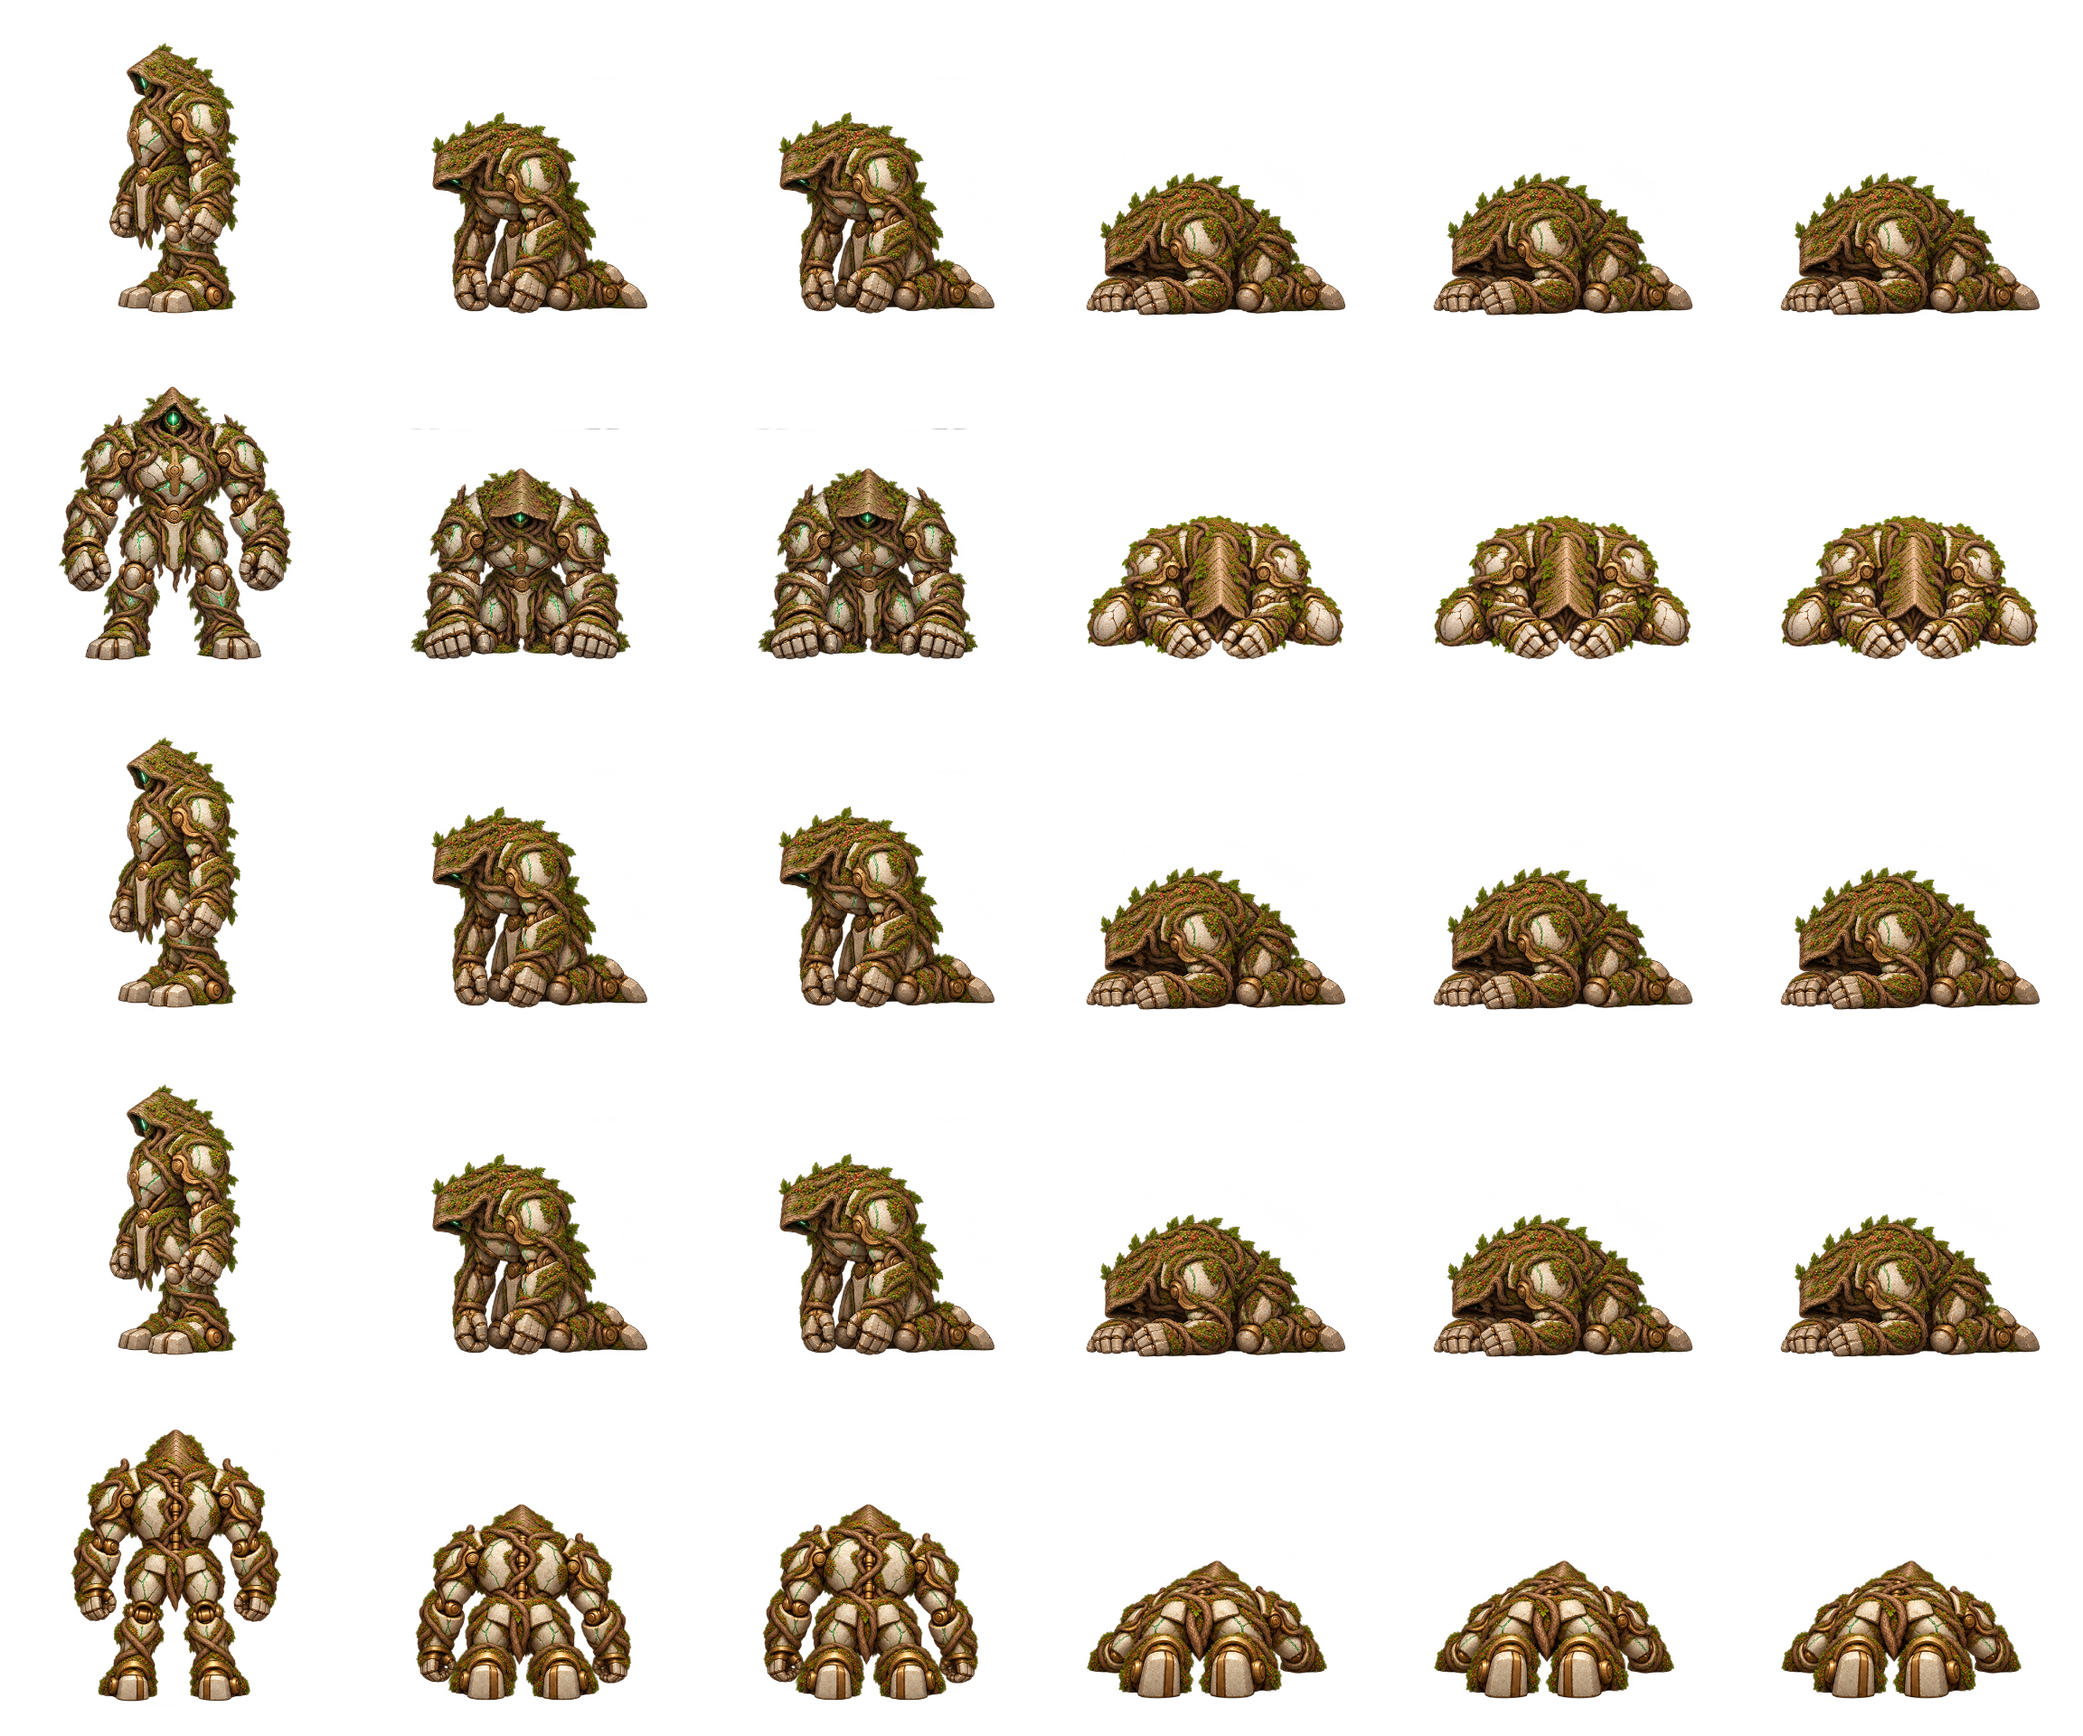
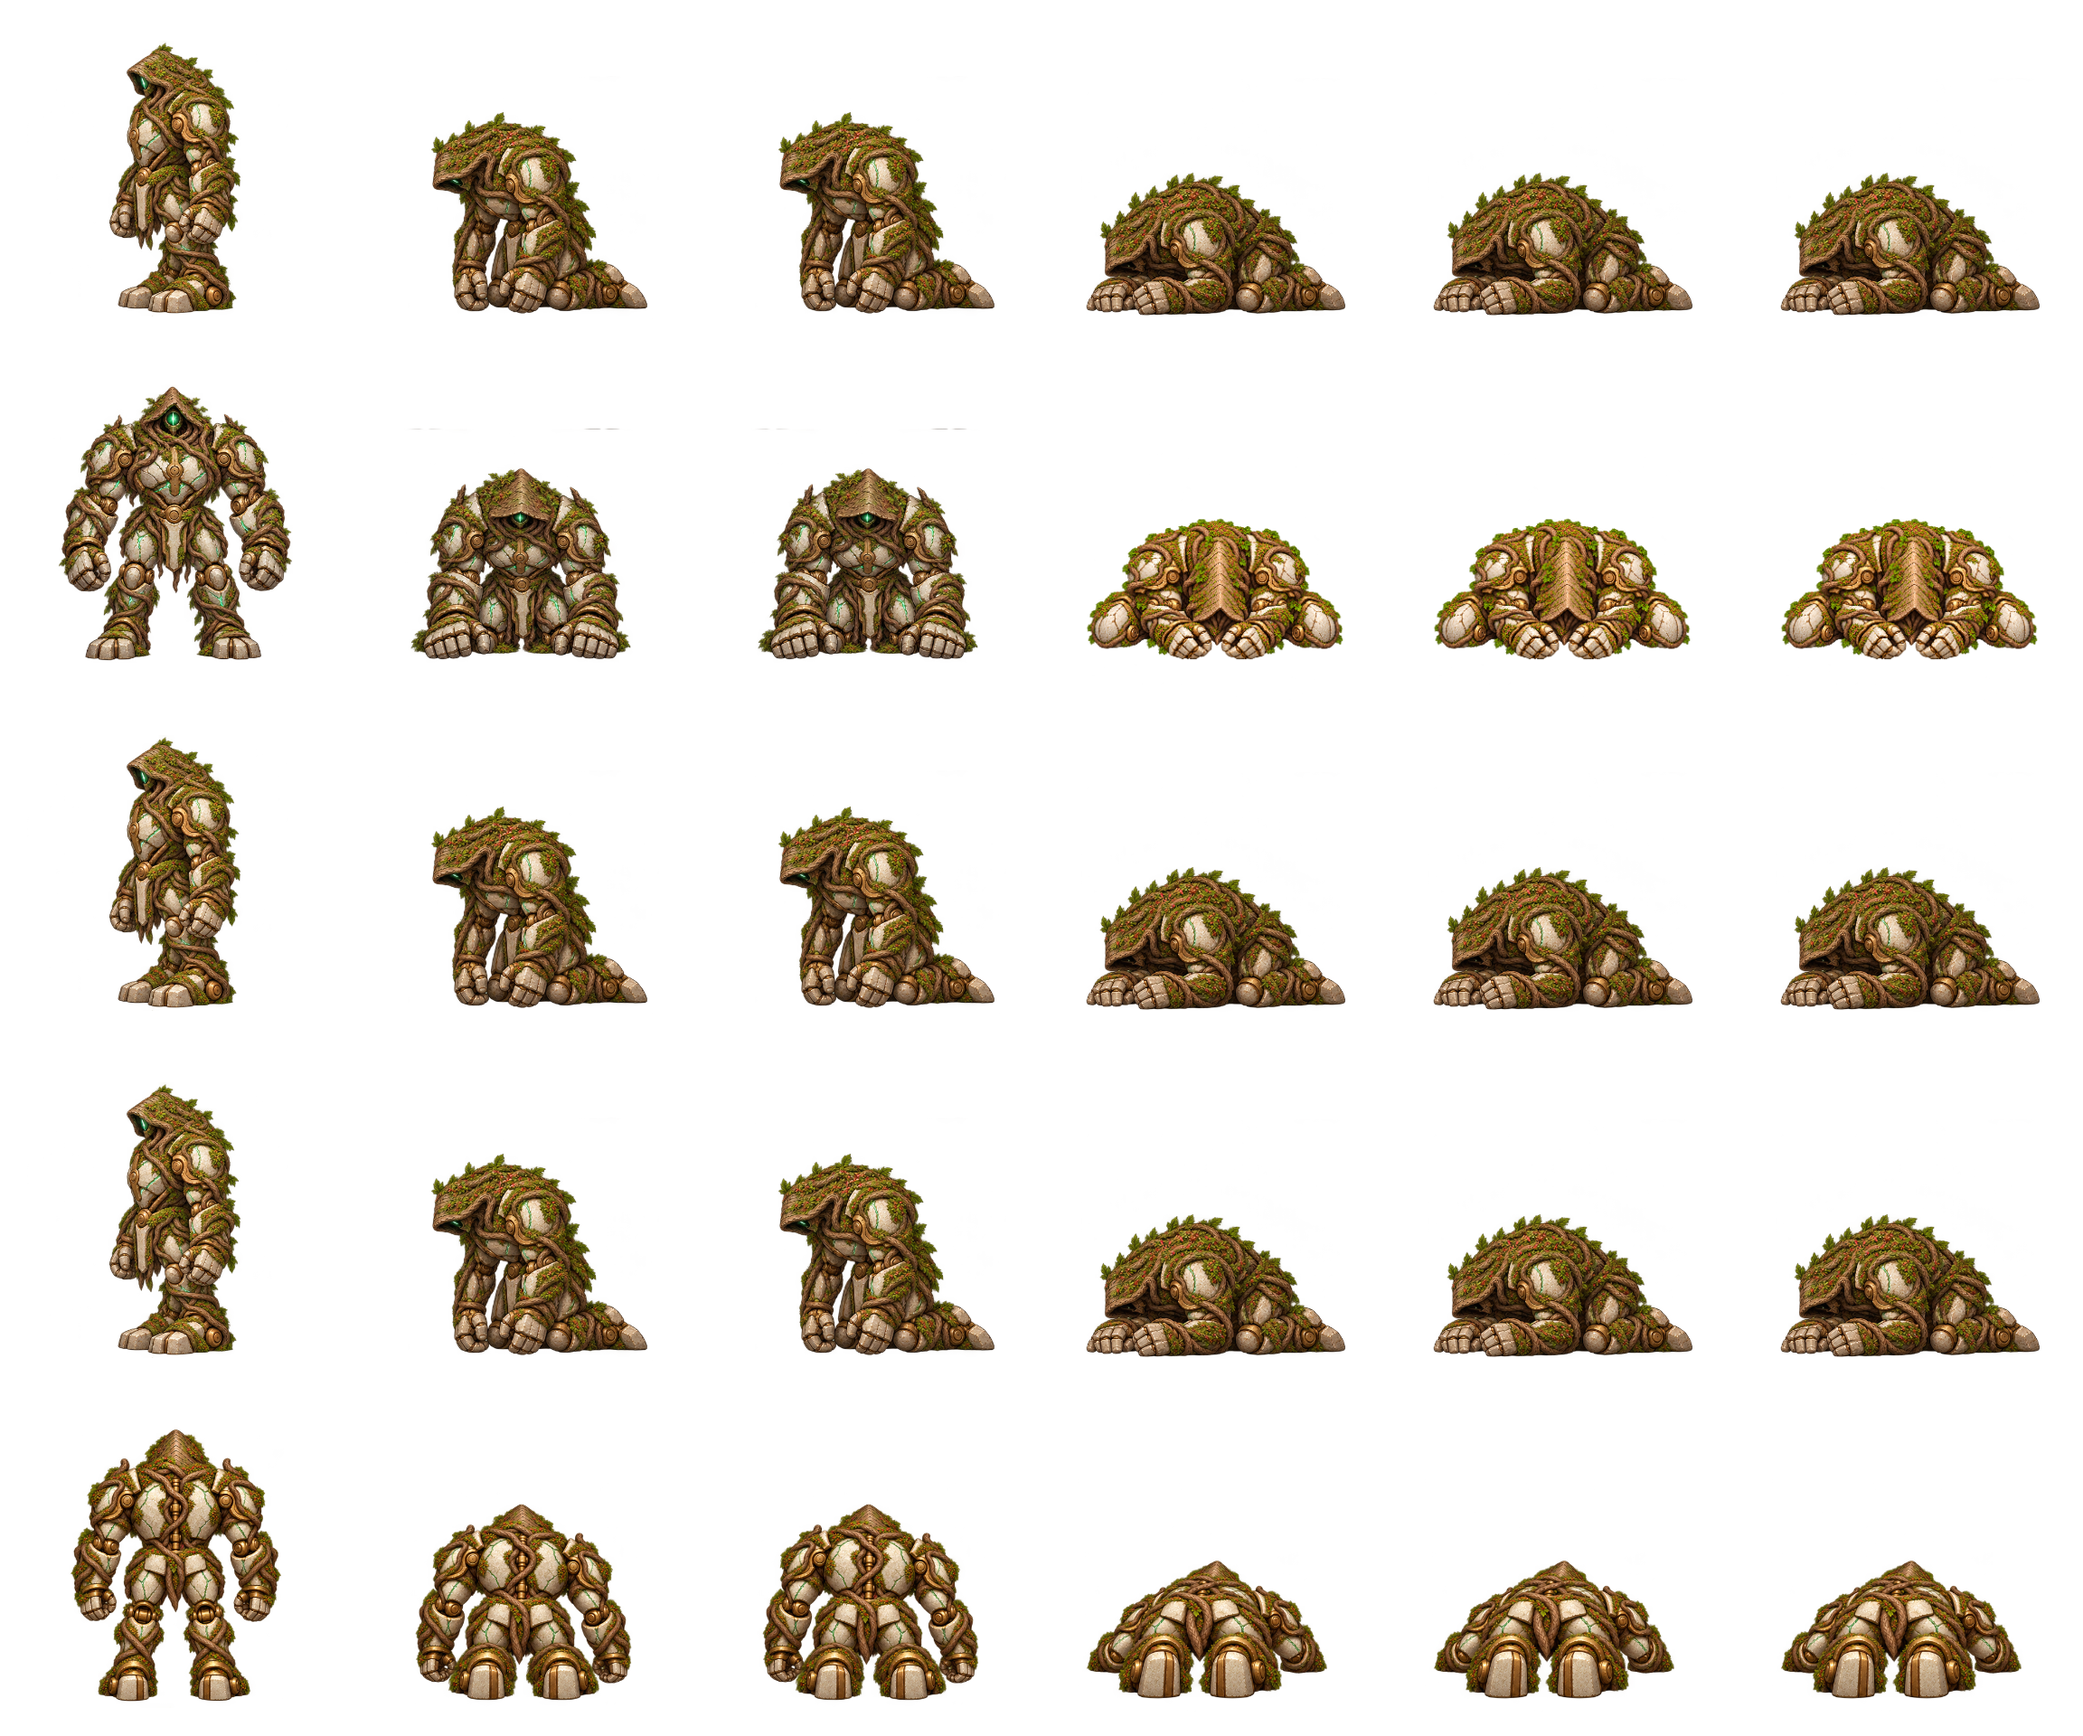
art: repair Root Sentinel death source margins and refresh sprite export

Changed region(s): [[0.8438, 0.2812, 1.0, 0.375], [0.5, 0.2812, 0.6562, 0.375], [0.6875, 0.2812, 0.8125, 0.375]]

diff --git a/art-source/monsters/mob_0015/actions-review.html b/art-source/monsters/mob_0015/actions-review.html
@@ -10,7 +10,7 @@
 const im=new Image();im.src='./actions-left.png';await im.decode();
 const corrected=new Image();corrected.src='./attack-left-strike.png';await corrected.decode();
 const front=new Image();front.src='./actions-front.png';await front.decode();
-const frontDead=new Image();frontDead.src='./death-front-final-v2.png';await frontDead.decode();
+const frontDead=new Image();frontDead.src='./death-front-final-v3.png';await frontDead.decode();
 const back=new Image();back.src='./actions-back.png';await back.decode();
 const idleLeft=new Image();idleLeft.src='./idle-left-leaves.png';await idleLeft.decode();
 const idleFront=new Image();idleFront.src='./idle-front-leaves.png';await idleFront.decode();
@@ -19,7 +19,7 @@ function alternate(p){return p===0&&document.querySelector('#clip').value==='idl
 const crops=[[0,0,512,534],[512,0,444,534],[950,0,586,534],[0,534,512,490],[512,534,488,490],[1000,534,536,490]];
 const ax=[285,240,355,260,220,260],bottom=[528,532,532,475,458,455];
 const seq={idle:[0,0,0,0,0,0],attack:[0,1,1,2,2,0],hit:[0,3,3,0,0,0],death:[0,4,4,5,5,5]};
-function pose(g,p,x,y,s){if(document.querySelector('#view').value==='back'){const sx=p<3?p*512:p===3?0:p===4?570:1024,sy=p<3?0:550,w=p===3?570:p===4?454:512,h=p<3?550:474;const a=[290,280,275,300,220,275][p],b=[538,540,540,455,435,435][p];g.drawImage(alternate(p)?idleBack:back,sx,sy,w,h,x-a*s,y-b*s,w*s,h*s);return;}if(document.querySelector('#view').value==='front'){if(p===5){const k=s*.4;g.drawImage(frontDead,x-frontDead.width*k/2,y-1140*k,frontDead.width*k,frontDead.height*k);return;}const sx=p===2?1040:p<3?p*512:p===3?0:550,sy=p<3?0:540,w=p===3?550:p===4?450:p===2?496:512,h=p===0?540:p<3?548:484;const b=[534,540,544,458,448][p],a=[280,270,264,280,225][p];g.drawImage(alternate(p)?idleFront:front,sx,sy,w,h,x-a*s,y-b*s,w*s,h*s);return;}if(p===2){const k=s*.42;g.drawImage(corrected,x-750*k,y-1225*k,corrected.width*k,corrected.height*k);return;}const [sx,sy,w,h]=crops[p];g.drawImage(alternate(p)?idleLeft:im,sx,sy,w,h,x-ax[p]*s,y-bottom[p]*s,w*s,h*s);}
+function pose(g,p,x,y,s){if(document.querySelector('#view').value==='back'){const sx=p<3?p*512:p===3?0:p===4?570:1024,sy=p<3?0:550,w=p===3?570:p===4?454:512,h=p<3?550:474;const a=[290,280,275,300,220,275][p],b=[538,540,540,455,435,435][p];g.drawImage(alternate(p)?idleBack:back,sx,sy,w,h,x-a*s,y-b*s,w*s,h*s);return;}if(document.querySelector('#view').value==='front'){if(p===5){const k=s*.425;g.drawImage(frontDead,x-frontDead.width*k/2,y-1034*k,frontDead.width*k,frontDead.height*k);return;}const sx=p===2?1040:p<3?p*512:p===3?0:550,sy=p<3?0:540,w=p===3?550:p===4?450:p===2?496:512,h=p===0?540:p<3?548:484;const b=[534,540,544,458,448][p],a=[280,270,264,280,225][p];g.drawImage(alternate(p)?idleFront:front,sx,sy,w,h,x-a*s,y-b*s,w*s,h*s);return;}if(p===2){const k=s*.42;g.drawImage(corrected,x-750*k,y-1225*k,corrected.width*k,corrected.height*k);return;}const [sx,sy,w,h]=crops[p];g.drawImage(alternate(p)?idleLeft:im,sx,sy,w,h,x-ax[p]*s,y-bottom[p]*s,w*s,h*s);}
 const ctx=document.querySelector('#motion').getContext('2d'),cg=document.querySelector('#contact').getContext('2d');
 function contact(){cg.clearRect(0,0,1800,1100);for(let p=0;p<6;p++){pose(cg,p,p%3*600+300,Math.floor(p/3)*550+520,.9);}}
 let f=0,last=0,paused=false;
